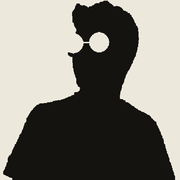
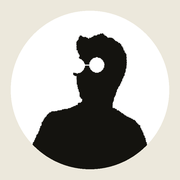
fix: stand the site mark on a white disc
The favicon had no ground and inverted itself on prefers-color-scheme:
dark. That reads the OS, not the tab strip, so a dark browser theme on
a light OS painted the ink figure on near-black and it disappeared. The
figure now sits on a white disc that clips its shoulders, in the SVG and
in every raster icon, which are rebuilt from the SVG's own bitmap by
web/scripts/brand/build-icons.py. The app icons put the disc on the
site's paper so it still reads as a disc.

Claude-Session: https://claude.ai/code/session_013rV122rB1efRPxM15SDQLv

diff --git a/web/index.html b/web/index.html
@@ -35,7 +35,7 @@
          the fallback for Safari and for anything that ignores the SVG, and it
          carries 48/32/16 so the tab gets a size drawn for it rather than a
          512 squeezed down. Both are the same bust; see the note in
-         favicon.svg for why it is an inverted bitmap and not a traced path. -->
+         favicon.svg for why the figure stands on a white disc. -->
     <link rel="icon" href="/favicon.svg" type="image/svg+xml" />
     <link rel="icon" href="/favicon.ico" sizes="48x48 32x32 16x16" />
     <link rel="icon" href="/icon-192.png" type="image/png" sizes="192x192" />

diff --git a/web/scripts/brand/build-icons.py b/web/scripts/brand/build-icons.py
@@ -1,0 +1,61 @@
+"""
+Build every raster icon from the one mark in `public/favicon.svg`.
+
+Run from `web/`:  uv run --with pillow python -I scripts/brand/build-icons.py
+
+The mark is a 384px 2-colour bitmap (ink figure, transparent ground, the
+lenses knocked out) embedded in the SVG. Every icon is that figure on a
+white disc, because a dark tab strip swallowed the bare figure: the SVG's
+`prefers-color-scheme` invert only fires when the OS is dark, and a browser
+with a dark theme on a light OS showed ink on near-black. A disc makes the
+icon carry its own ground, so it is legible on any strip and needs no
+colour-scheme rule at all.
+
+Geometry, shared with the SVG: the figure is scaled to FIG of the disc's
+diameter, centred horizontally and dropped to the bottom so the shoulders run
+off the disc's edge and are clipped by it, like a portrait in a roundel.
+"""
+import base64, re, sys
+from io import BytesIO
+from pathlib import Path
+from PIL import Image, ImageDraw
+
+PUBLIC = Path(__file__).resolve().parents[2] / "public"
+FIG = 0.86          # figure height as a fraction of the disc diameter
+WHITE = (255, 255, 255, 255)
+PAPER = (236, 232, 220, 255)  # --paper, the site's ground: the disc reads on it
+SS = 4              # supersampling factor for a clean disc edge
+
+svg = (PUBLIC / "favicon.svg").read_text()
+mark = Image.open(BytesIO(base64.b64decode(re.search(r"base64,([A-Za-z0-9+/=]+)", svg).group(1)))).convert("RGBA")
+
+
+def disc(size: int, inset: float = 0.0, ground=None) -> Image.Image:
+    """The figure on a white disc, `inset` (fraction) clear of each edge."""
+    big = size * SS
+    d = round(big * (1 - 2 * inset))
+    off = (big - d) // 2
+    out = Image.new("RGBA", (big, big), ground or (0, 0, 0, 0))
+    mask = Image.new("L", (big, big), 0)
+    ImageDraw.Draw(mask).ellipse((off, off, off + d - 1, off + d - 1), fill=255)
+    layer = Image.new("RGBA", (big, big), (0, 0, 0, 0))
+    layer.paste(WHITE, (0, 0, big, big), mask)
+    f = round(d * FIG)
+    fig = mark.resize((f, f), Image.LANCZOS)
+    layer.alpha_composite(fig, (off + (d - f) // 2, off + d - f))
+    clipped = Image.new("RGBA", (big, big), (0, 0, 0, 0))
+    clipped.paste(layer, (0, 0), mask)
+    out.alpha_composite(clipped)
+    return out.resize((size, size), Image.LANCZOS)
+
+
+disc(192).save(PUBLIC / "icon-192.png", optimize=True)
+disc(512).save(PUBLIC / "icon-512.png", optimize=True)
+# Maskable: the platform crops to its own shape, so the disc sits inside the
+# 80% safe zone on a full-bleed paper ground and any crop still shows it whole.
+disc(512, inset=0.1, ground=PAPER).save(PUBLIC / "icon-maskable-512.png", optimize=True)
+# iOS fills transparency with black and rounds the corners itself.
+disc(180, inset=0.06, ground=PAPER).save(PUBLIC / "apple-touch-icon.png", optimize=True)
+ico = disc(256)
+ico.save(PUBLIC / "favicon.ico", sizes=[(48, 48), (32, 32), (16, 16)])
+print("icons written to", PUBLIC, file=sys.stderr)
